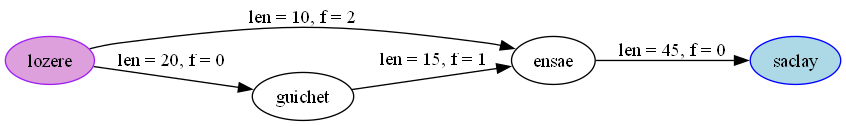
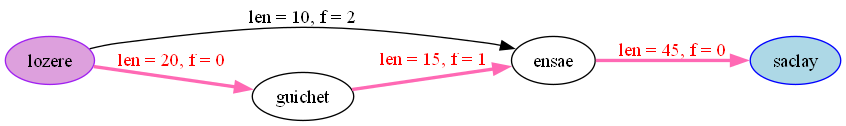
Finalisation de l'optimisation

Changed region(s): [[0.3995, 0.4048, 0.6147, 0.7143], [0.0922, 0.4286, 0.3073, 0.7381], [0.7069, 0.3333, 0.8913, 0.5238]]

diff --git a/code/main.py b/code/main.py
@@ -8,23 +8,11 @@ import ast
 import sys 
 from pathlib import Path
 
-# Charger le réseau
+# Charger l'environnement du réseau
 
 ROOT = Path(__file__).parent.parent
 sys.path.append(str(ROOT / "code"))
 NET_DIR = ROOT / "examples"
-
-network_file = "/home/onyxia/work/Emmanuelle-Chocron---Samuel-Placek/examples/small.txt"
-network = Network.from_file(NET_DIR / "small.txt")
-
-'''
-A enelever avant le rendu final !!!!
-print(answers.simple_case(network, "lozere", "saclay"))
-'''
-
-#print(answers.algo_a_star(network, "lozere", "saclay"))
-
-
 
 
 # Choix du mode de lancement
@@ -35,44 +23,56 @@ if MODE == 1: # Lancement des fonctions de test
     subprocess.run(["python", "-m", "unittest", "tests.test_network_from_file"], cwd=ROOT)
 
 if MODE == 2: # Exécution de fonctions
-    fc = input("Quelle fonction voulez vous lancer ? ")
-
-    while not (hasattr(answers, fc) and callable(getattr(answers, fc))): # On regarde si la fonction existe
-        print("Cette fonction n'existe pas. Veuillez réessayer.")
-        fc = input("Quelle fonction voulez vous lancer ? ")
+    # Chargement d'un fichier network voulu par l'utilisateur
+    network = None
+    fichier_valide = False
     
+    while not fichier_valide:
+        nom_fichier = input("Veuillez entrer le nom du fichier réseau (ex: 'small.txt') : ")
+        chemin_fichier = NET_DIR / nom_fichier
+
+        if chemin_fichier.is_file():
+            network = Network.from_file(str(chemin_fichier))
+            fichier_valide = True 
+        else:
+            print("Erreur : Fichier introuvable.\n")
+
+    # Exécution d'une fonction
+    fc = input("Quelle fonction voulez-vous lancer ? ")
+
+    while not (hasattr(answers, fc) and callable(getattr(answers, fc))):
+        print("Cette fonction n'existe pas. Veuillez réessayer.")
+        fc = input("Quelle fonction voulez-vous lancer ? ")
+
     fonction_a_lancer = getattr(answers, fc)
     signature = inspect.signature(fonction_a_lancer)
-    parametres_attendus = signature.parameters
-    arguments_fournis = {}
-    variables_disponibles = {"network": network}
 
-    if parametres_attendus: # On demande à l'utilisateur de choisir les arguments pour lancer la fonction
+    arguments_fournis = {}
+
+    if signature.parameters:
         for nom_param, param in signature.parameters.items():
-            
-            # On vérifie si la fonction a déjà une valeur par défaut pour cet argument
+            # On sait déjà qu'on va travailler avec la variable network : inutile de re demander
+            if nom_param == "network":
+                arguments_fournis["network"] = network
+                continue
+
             a_un_defaut = param.default != inspect.Parameter.empty
-            
+
             if a_un_defaut:
-                message = f"  -> Valeur pour '{nom_param}' (Appuyez sur Entrée pour garder le défaut) : "
+                message = f" -> Valeur pour '{nom_param}' (Entrée pour garder le défaut) : "
             else:
-                message = f"  -> Entrez la valeur obligatoire pour '{nom_param}' : "
-                
+                message = f" -> Entrez la valeur obligatoire pour '{nom_param}' : "
+
             saisie = input(message)
-            
-            # Si l'utilisateur n'a rien tapé ET qu'il y a un paramètre par défaut, on l'ignore !
+
+            # Gestion des valeurs par défaut
             if saisie.strip() == "" and a_un_defaut:
                 continue
-            
-            # Si l'utilisateur a tapé une variable connue dans notre dictionnaire
-            if saisie in variables_disponibles:
-                valeur_convertie = variables_disponibles[saisie]
-            else:
-                try:
-                    valeur_convertie = ast.literal_eval(saisie)
-                except (ValueError, SyntaxError):
-                    valeur_convertie = saisie
-                    
+
+            try:
+                valeur_convertie = ast.literal_eval(saisie)
+            except (ValueError, SyntaxError):
+                valeur_convertie = saisie
             arguments_fournis[nom_param] = valeur_convertie
 
     resultat = fonction_a_lancer(**arguments_fournis)

diff --git a/code/graph.py b/code/graph.py
@@ -87,12 +87,10 @@ class GraphImplicit(Graph):
 
     def oracle(self, node, historique):
         u, fatigue = node
-        
-        for other_node in historique:
-            v, fatigue2 = other_node
+        for v, fatigue2 in historique:
             if u == v and fatigue2 != 0 and fatigue >= fatigue2:
-                return False          
-        historique.append(node)
+                return False
+        historique.add(node)     
         return True
 
     def shortest_path(self, start, end):
@@ -152,8 +150,6 @@ class GraphImplicit(Graph):
 
             if u_actuel == end:
                 temps_final = g_score[current_node]
-                
-                # Reconstruction du chemin
                 chemin = []
                 curr = current_node
                 while curr in came_from:
@@ -161,17 +157,24 @@ class GraphImplicit(Graph):
                     curr = came_from[curr]
                 chemin.append(curr) # On ajoute le point de départ
                 chemin.reverse()
-                chemin.append((end, 0))
+                super_sommet = (end, 0)
+
+                if chemin[-1] != super_sommet:
+                    chemin.append(super_sommet)
+                    
                 return chemin, temps_final
 
-            # Exploration des voisins
-            for voisin_node, poids in self.neighbors(current_node).items():
+            voisins = self.neighbors(current_node)
+            liste_voisins = voisins.items() if isinstance(voisins, dict) else voisins
+
+            for voisin_node, poids in liste_voisins:
                 tentative_g_score = g_score[current_node] + poids
 
                 if tentative_g_score < g_score.get(voisin_node, float('inf')):
                     came_from[voisin_node] = current_node
                     g_score[voisin_node] = tentative_g_score
-                    f_score = tentative_g_score + self.heuristic(voisin_node, distances_simples, end)
+                    h_score = self.heuristic(voisin_node, distances_simples, end)
+                    f_score = tentative_g_score + h_score
+                    
                     heapq.heappush(open_set, (f_score, voisin_node))
-
         return None, float('inf')

diff --git a/code/answers.py b/code/answers.py
@@ -1,7 +1,7 @@
 from network import *
 from graph import *
 
-# Partie 1
+# Partie 1 -  Chemin de temps minimal
 
 # 1.1 - Cas d'un network sans aucune fatigue, ie d'un graphe
 def simple_case(network, start, end):
@@ -11,21 +11,26 @@ def simple_case(network, start, end):
 # 1.2 - Implémentation d'un graphe étendu de manière moins naïve pour considérer la faitgue
 def extended_graph(network, start, end):
     graph = network.build_extended_graph()
-    return graph.shortest_path(start, end)
+    return graph.shortest_path((start, 1), (end, 0))
 
 # 1.3 - Création du graphe étendu en utilisant une méthode implicite
 def implicit_graph(network, start, end):
     graph = network.build_implicit_graph(network)
-    return graph.shortest_path(start, end)
+    return graph.shortest_path((start, 1), (end, 0))
 
-def show_network(network, start, end): # end est le nom du noeud de fin, qui sera sous la forme (end, 0) en super sommet
-    path, _ = implicit_graph(network, (start, 1), (end, 0))
-    network.draw_network(path)
+def show_network(network, start, end, filename="Représentation du réseau"):
+    path, _ = algo_a_star(network, start, end)
+    network.draw_network(path, filename)
+    return f"Graphique généré avec succès : {filename}.png"
 
 
-# Partie 2
+# Partie 2 - Améliorations algorithmiques 
 
 # 2.1 - Suppression des noeuds Pareto dominés : méthode de "prunning"
+'''
+En réalité, l'appel à la fonction implicit_graph en 1.3 utilise déjà la méthode de prunning car la méthode shortest_path 
+de la classe GraphImplicit enlève les noeuds Pareto dominés grâce à l'utilisation de la méthode oracle
+'''
 
 # 2.2 - Algorithme A*
 def algo_a_star(network, start, end):
@@ -37,3 +42,6 @@ def algo_a_star(network, start, end):
         return "Destination non atteignable"
     else:
         return chemin, cout
+    
+
+# Partie 3 - Extensions 

diff --git a/code/network.py b/code/network.py
@@ -143,7 +143,7 @@ class Network:
         return GraphImplicit(generate_neighbors)
 
 
-    def draw_network(self, path, filename="Représentation du réseau"):
+    def draw_network(self, path, filename):
         import graphviz
               
         dot = graphviz.Digraph(comment='Chemin de temps minimal', format='png')
@@ -179,7 +179,6 @@ class Network:
                     dot.edge(str(u), str(v), label=edge_label)
 
         dot.render(filename, view=False)
-        print(f"Graphique généré avec succès : {filename}.png")
 
     def reversed_dijkstra(self, end):
         routes_inverses = {ville: [] for ville in self._roads.keys()}
